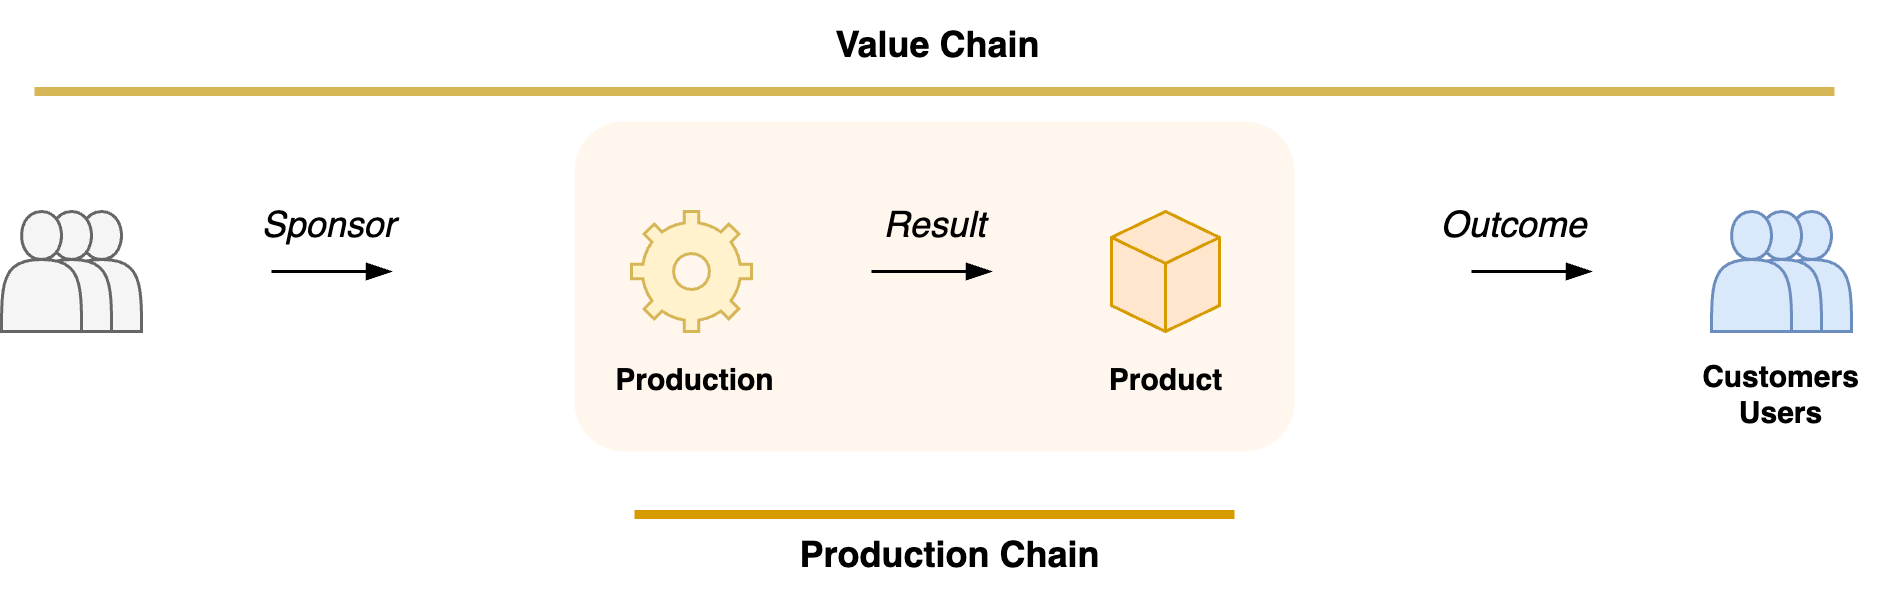
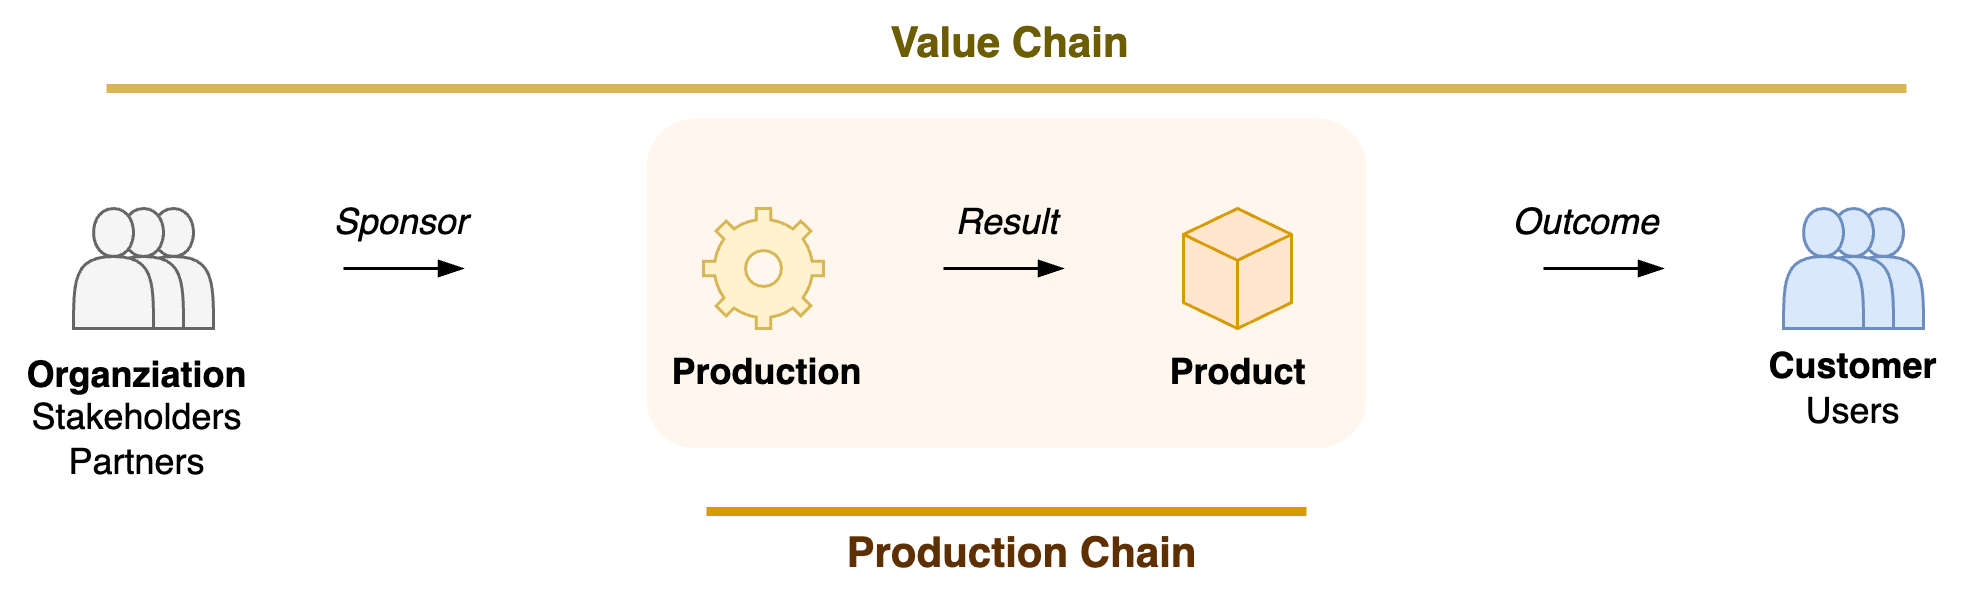
add management ideas

diff --git a/management/product-management.md b/management/product-management.md
@@ -1,20 +1,26 @@
 # Product Management
 
-This document explores the management of [products and projects](../labour/products-projects-initiatives.md). It de-emphasises [business operations](https://en.wikipedia.org/wiki/Business_operations). See also [goals and strategy](./goals-planning-strategy.md),  [management principles](../management-principles.md) and [requirements-engineering](../requirements-engineering.md) and [results](../labour/realization.md).
+This document explores the management of [products and projects](../labour/products-projects-initiatives.md). It de-emphasises [business operations](https://en.wikipedia.org/wiki/Business_operations). See also [goals and strategy](./goals-planning-strategy.md),  [management principles](../management-principles.md), [requirements-engineering](../requirements-engineering.md) and [results](../labour/realization.md).
 
 [toc]
 
 ## Overview
 
-Product management revolves around:
+**Components**
 
-1. **Designing** a product (business) vision.
-2. **Discovering** the market fit. Understanding the users and customers.
-3. **Delivering** the product to customers. 
-
-At the same time, it consists of collaborating with partners and managing production.
+1. People. An organization, developers and customers.
+2. Products and services. Markets and competitors.
 
 
+
+**Activities**
+
+1. Discovery. Channels and methods to deliver value.
+2. Delivery. Realizing a vision. Responding to change.
+
+
+
+**Value Chain**
 
 Two perspectives are a contextual view and an internal view. These map to the value and production chains.
 
@@ -38,15 +44,19 @@ Running a business involves collaboration and [management](https://en.wikipedia.
 
 ### Internal View
 
-<img src="../img/production-outcome.png" alt="production-outcome" style="height:4em;" />
-
 Value delivery is the result of realization of a vision. See [performance](../collaboration/team-performance.md).
 
 <img src="../img/grid-organization-production-product.png" alt="grid-organization-production-product" style="height:12em;" />
 
 Value delivery is contingent upon production and capability.
 
+
+
 <img src="../img/product-production-capability.png" alt="product-production-capability" style="width:55%;" />
+
+
+
+## Value Delivery
 
 Value is a mix of direct value and growth.
 
@@ -54,9 +64,7 @@ Value is a mix of direct value and growth.
 
 
 
-
-
-## Value Delivery
+### What
 
 Value delivery can be understood in two directions. See [delivery](../labour/realization.md).
 
@@ -77,6 +85,12 @@ See also [initiatives](../labour/initiatives.md) and [bets](../labour/bets.md).
 
 
 ### How
+
+Three innovation horizons. From exploitation to exploration.
+
+1. Current cash-flow (value): profitable now. Risk: they may become a commodity.
+2. High-growth businesses: will become cash-flow.
+3. Growth options: will potentially become growth.
 
 <img src="../img/effective-efficient-predictable.png" alt="effective-efficient-predictable" style="height:16em;" />
 
@@ -148,24 +162,6 @@ Philosophy
 - Analogies to fuel imagination.
 - Present features as solutions
 
-**Product Portfolio**
-
-Three innovation horizons. From exploitation to exploration.
-
-1. Current cash-flow (value): profitable now. Risk: they may become a commodity.
-2. High-growth businesses: will become cash-flow.
-3. Growth options: will potentially become growth.
-
-**Types of Customers and Stakeholders**
-
-For software products.
-
-- The product-owner or project-manager
-- The business (the rest of the organization)
-
-- The users of a platform (e.g. sellers on ebay)
-- The end-users (e.g. buyers on ebay)
-
 **Market**
 
 > Good strategy means saying no.
@@ -204,7 +200,7 @@ Similar to markets, processes may have to be adjusted constantly. Do have regula
 
 
 
-## Patterns & Anti-patterns
+## Anti-patterns
 
 [Agile Product Ownership](https://www.youtube.com/watch?v=502ILHjX9EE) - overview by Henrik Kniberg
 
@@ -226,43 +222,4 @@ A [locally optimized, simplified version](https://twitter.com/johncutlefish/stat
 **Zombie product**
 A product that is kept alive for political or personal reasons rather than market demand.
 
-**Bottlenecks**
 
-- What is holding you back?
-- What patterns do you see developing?
-- Where would you focus more/less on?
-
-
-
-### Realization Processes
-
-From objective to discovery to delivery.
-
-**Formal steps**
-
-1. Initial idea.
-2. Let it grow. Re-think it or share it with other people.
-3. Prioritize it.
-4. Build it. This requires development capacity.
-5. Release it. This requires stakeholder and/or customer management.
-
-**Implementation agnostic idea**
-
-1. Narrative: `I wish my app would do X`
-2. Short preparation `Is this technically feasible?`, `Can this be split up?`
-3. Prioritization, then specification, then re-evaluation.
-4. Implementation, then (gradual) release
-
-**Low-hanging fruit / technical  possibility**
-
-1. Technical possibility: `We could connect X to Y`
-2. Brain-storm of implications and possibilities: `What are the advantages for the user?`
-3. Prioritization
-4. Implementation, then (gradual) release.
-
-**Risk-based**
-
-1. Signal of a risk.
-2. Analysis of exposure and possible counter-strategies.
-3. Prioritization of chosen strategy.
-4. ...

diff --git a/management/team-management.md b/management/team-management.md
@@ -1,0 +1,56 @@
+# Team Management
+
+[toc]
+
+## Overview
+
+> Management is just expectations.
+
+Management involves the realization of **expectations**. Team expectations are shaped by the team's [identity](../collaboration/identity.md) and origin.
+
+- Team vision. *How the team wants to be.*
+- Team purpose. *What the team aims to deliver.*
+
+These desires drive progress. They result in initiatives, engagement and improvement.
+
+
+
+Team management may emphase capability or delivery. See team [performance](../collaboration/team-performance.md) and [success](../collaboration/team-success.md).
+
+<img src="../img/capability-production-delivery-vertical.png" alt="capability-production-delivery-vertical" style="height:12em;" />
+
+
+
+Team performance is contingent on the quality of the team itself.
+
+<img src="../img/pyramid-team-performance-trust-care.png" alt="pyramid-team-performance-trust-care" style="height:12em;" />
+
+
+
+## Team Dynamics: Roles
+
+A team consists of **people** that realize **projects**. They do so using **capabilities**. Large organizations tend to split these up into accountabilities. Capabilities may include technology (engineering) and infrastructure (networks).
+
+<img src="../img/venn-people-projects-capability.png" alt="venn-people-projects-capability" style="height:18em;" />
+
+
+
+## Team Work
+
+Team management involves the following components. See also [administration](../collaboration/administration.md).
+
+```
+Context
+- The organization. Sponsering, strategy.
+Change
+- Team objectives.
+BAU
+- Backlog. Priority of initiatives.
+- Roadmap. Planning of initiatives.
+- Processes. Guard rails, runbooks, ceremonies.
+- Culture. Behaviour, beliefs, expectations.
+- Quality standards. Expectations on work and interaction.
+```
+
+In the context of a team, work and projects are considered to be *business as usual* (BAU). The term *change* is reserved for radical changes. E.g. changes in the structure of the team itself.
+

diff --git a/management/management-styles.md b/management/management-styles.md
@@ -1,0 +1,64 @@
+# Management Styles
+
+See also [gardening](../collaboration/gardening.md).
+
+[toc]
+
+## Overview
+
+>  Management is knowing what to pay attention to.
+
+Management consists of
+
+- `Γ` Context. The environment.
+
+- `A` Big goals. Inspire. Align.
+
+- `α` Attention. Direct focus. Seize opportunities.
+
+
+
+This document covers:
+
+- Teams management.
+- Product management
+- Project management
+
+
+
+## Teams Management
+
+Core: people, capability, projects.
+
+|                    | Commanding       | Positioning     |
+| ------------------ | ---------------- | --------------- |
+| `Γ` **Context**    | Guard rails      | Gardening       |
+| `A` **Big desire** | Align            | Team vision     |
+| `α` **Attention**  | Set expectations | Guide attention |
+
+
+
+## Product Management
+
+Core: organization, developers, customers
+
+|                    | Commanding       | Positioning     |
+| ------------------ | ---------------- | --------------- |
+| `Γ` **Context**    | Functionality    | Capability      |
+| `A` **Big desire** | Roadmap          | Product vision  |
+| `α` **Attention**  | Set expectations | Guide attention |
+
+
+
+## Project Management
+
+Core: delivery
+
+Context: stakeholders & developers
+
+|                    | Commanding | Positioning          |
+| ------------------ | ---------- | -------------------- |
+| `Γ` **Context**    | Contracts  | Shared understanding |
+| `A` **Big desire** | Commitment | Vision and values    |
+| `α` **Attention**  | Method     | Results              |
+

diff --git a/management/change-management.md b/management/change-management.md
@@ -6,8 +6,6 @@ This relates to organizational change. From culture to processes. This is more c
 
 ## Overview
 
-
-
 **Types of change**
 
 1. Trivial change. This includes improvements that are obviously beneficial and accepted by a majority. They may not need additional attention from a manager.
@@ -31,6 +29,13 @@ Change covers any activity that falls outside business-as-usual (BAU). Change-ob
 See [requirements](../organization/requirements.md).
 
 <img src="../img/culture-principle-process.png" alt="culture-principle-process" style="width:50%;" />
+
+
+
+Optimize for:
+
+- Risk: small changes. Standardization
+- Efficiency: batches
 
 
 

diff --git a/collaboration/proposals.md b/collaboration/proposals.md
@@ -7,7 +7,10 @@
 There are three phases: `relation-question-answer`
 
 1. Set context. Connect to the audience. Involve them. *Why is this relevant to you, now?*
-2. Align on the need for change. Question the current state. A problem or opportunity. See *call to action*.
+2. Align on the need for change.
+   1. Question the current state. A problem or opportunity. See *call to action*.
+   2. Question the future. Show a great vision.
+
 3. Align on the next step. Consider solutions (answers). A path forward. See [story-mapping](../labour/story-mapping.md).
 
 

diff --git a/collaboration/gardening.md b/collaboration/gardening.md
@@ -1,6 +1,6 @@
 # Gardening for Teams
 
-The gardening approach leverages agency and diversity of the garden. It provides guard rails in which plants can grow. It addresses weed (bad habits) periodically.
+Managing teams has many similarities with managing a garden. In a garden, you plant seeds, rather than giving orders. Plants grow by themselves, if their environment can support it. Weeds (bad behaviour) are addressed periodically.
 
 [toc]
 

diff --git a/models.md b/models.md
@@ -92,7 +92,7 @@ Confidence, trust, reputation
 
 
 
-<img src="img/venn-people-projects-capability.png" alt="venn-people-projects-capability" style="height:14em;" />
+<img src="img/venn-people-projects-capability.png" alt="venn-people-projects-capability" style="height:18em;" />
 
 <img src="img/product-production-capability.png" alt="product-production-capability" style="height:18em;" />
 
